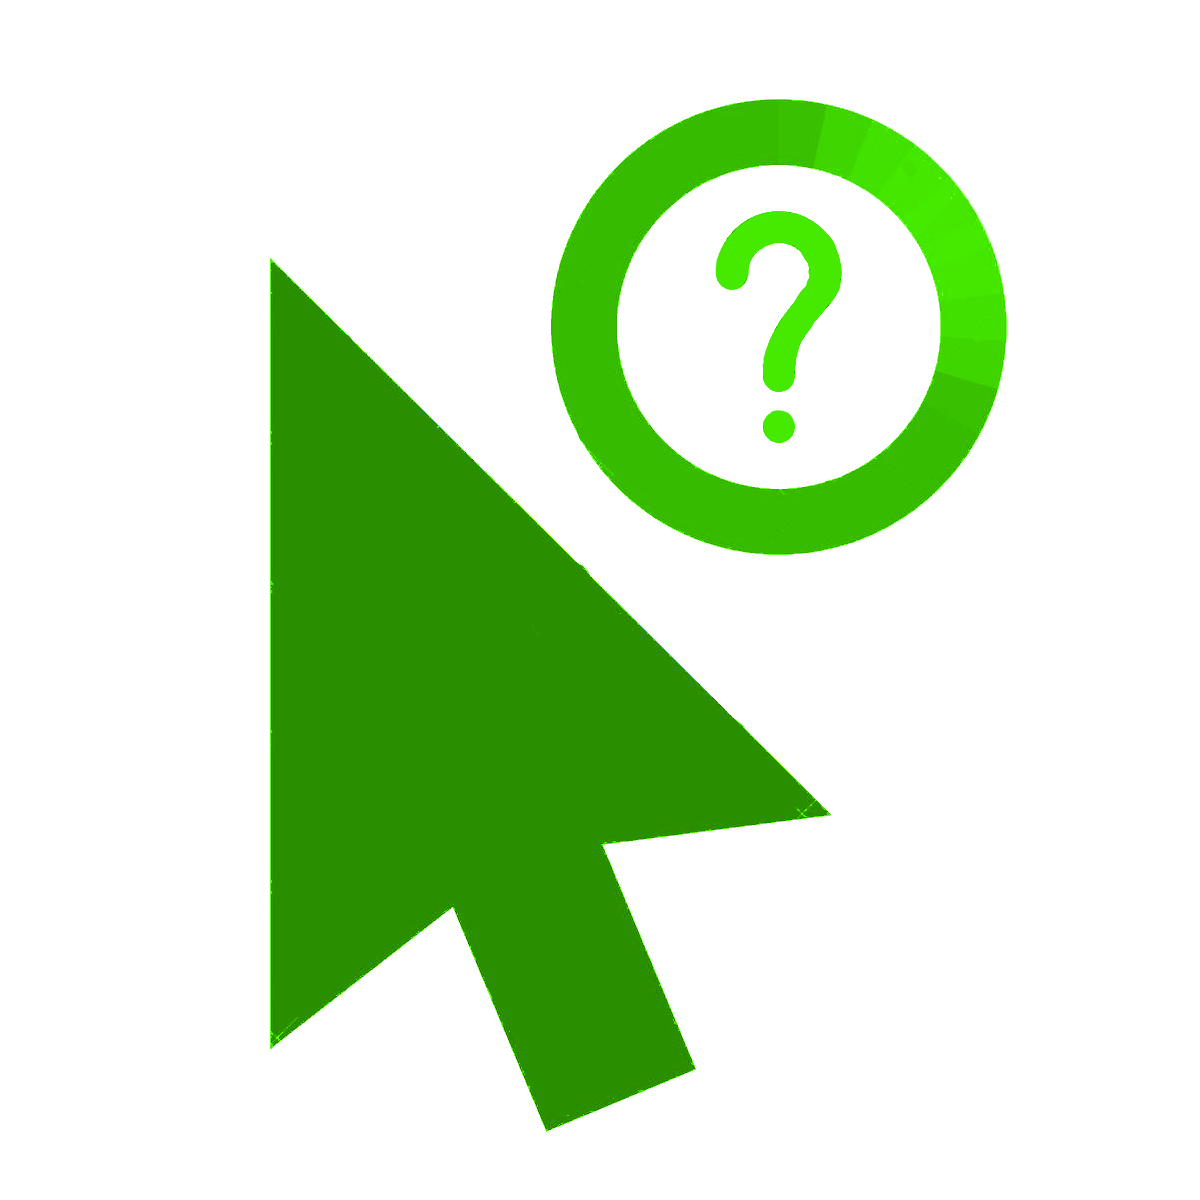
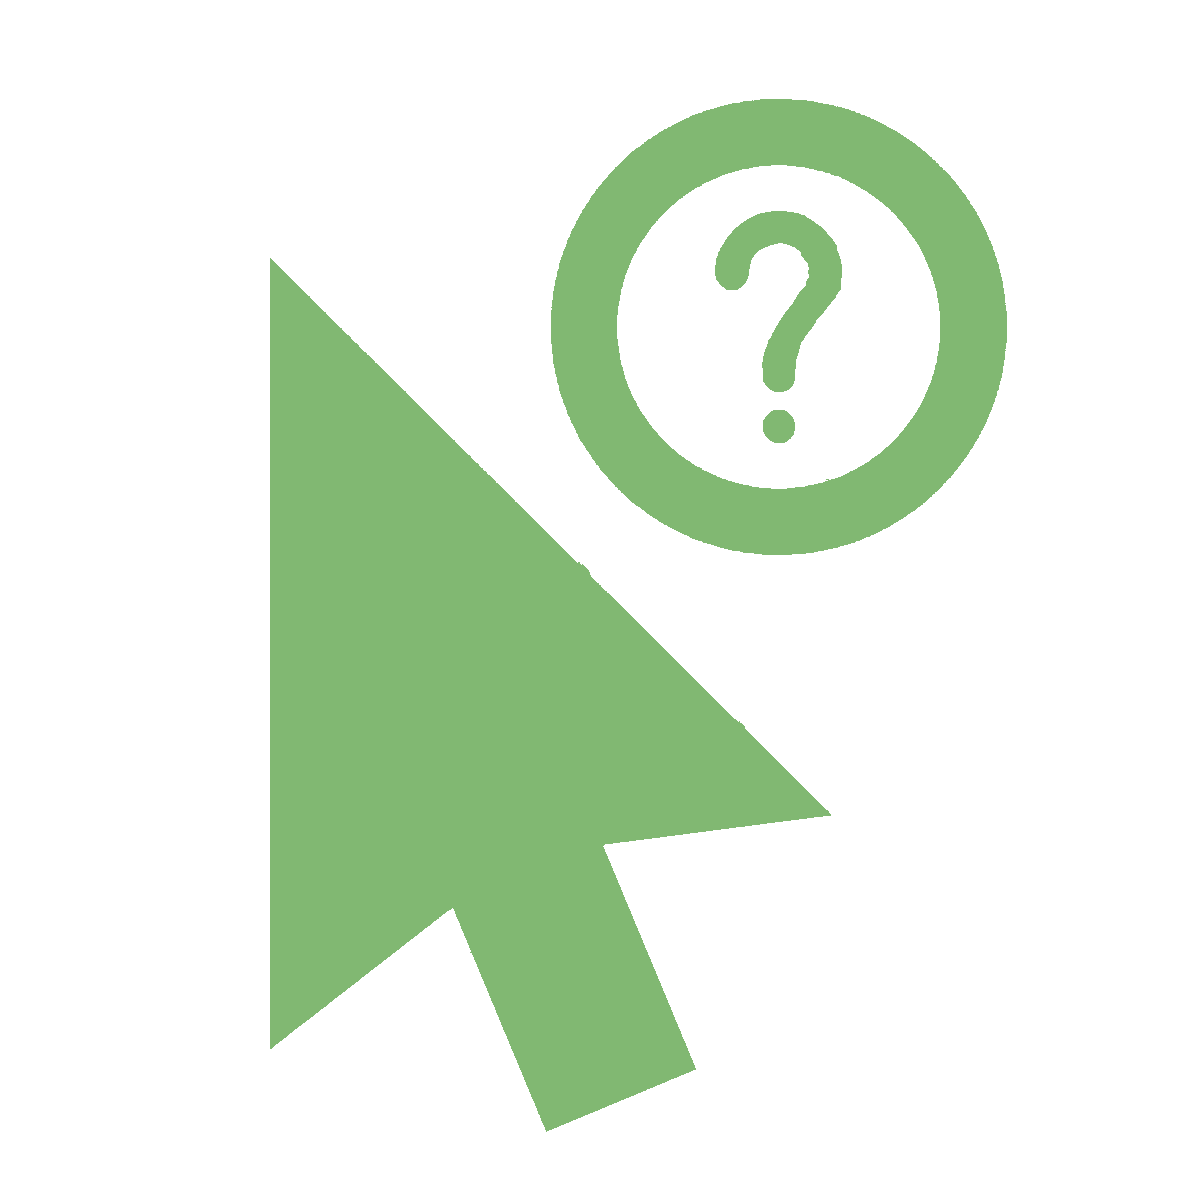
update

Changed region(s): [[0.2158, 0.2158, 0.7092, 0.9558], [0.4625, 0.0617, 0.8633, 0.4625]]

diff --git a/LeAFtool.py b/LeAFtool.py
@@ -333,7 +333,7 @@ class LeaftoolParams(qt.QGroupBox):
         self.parent = parent
 
         # Layout Style
-        self.setTitle("LeAFtool params")
+        self.setTitle("LeAFtool")
         self.setStyleSheet(style)
         # self.setAutoFillBackground(True)
         self.layout = qt.QGridLayout()
@@ -440,7 +440,7 @@ class RunLeAFtool(qt.QWidget):
         self.layout = qt.QGridLayout()
         self.layout.setSizeConstraint(qt.QVBoxLayout.SetMinAndMaxSize)
         self.setLayout(self.layout)
-        self.setContentsMargins(10, 10, 10, 10)
+        self.setContentsMargins(0, 0, 0, 0)
         style_global = fct.getStyleSheet()
         self.setStyleSheet(style_global)
         self.setStyleSheet(scroll_style)
@@ -689,8 +689,8 @@ class MainInterface(qt.QMainWindow):
         # Layout Style
         self.setAttribute(Qt.WA_DeleteOnClose)
         self.layout = qt.QVBoxLayout(self.main)
-        self.layout.setSizeConstraint(1)
-        self.main.setContentsMargins(5, 5, 5, 5)
+        # self.layout.setSizeConstraint(1)
+        self.main.setContentsMargins(0, 5, 5, 5)
         self.main.setAutoFillBackground(True)
         style_global = fct.getStyleSheet()
         self.setStyleSheet(style_global)
@@ -701,10 +701,10 @@ class MainInterface(qt.QMainWindow):
         self.logo_label = qt.QLabel(self)
         self.logo_img = QPixmap(vrb.folderMacroInterface + "/LeAFtool/Images/LeAFtool-long.png")
 
-        self.logo_img = self.logo_img.scaledToHeight(90, mode=Qt.FastTransformation)
+        self.logo_img = self.logo_img.scaledToHeight(80, mode=Qt.FastTransformation)
         self.logo_label.setPixmap(self.logo_img)
         self.logo_label.setAlignment(Qt.AlignCenter)
-        self.logo_label.setMaximumHeight(90)
+        self.logo_label.setMaximumHeight(80)
 
         # Initialize the 2 tab screen
         self.tabs = qt.QTabWidget()
@@ -722,7 +722,7 @@ class MainInterface(qt.QMainWindow):
         table_group.setTitle("Merge Results")
         table_group.setStyleSheet(style)
         table_group.layout = qt.QVBoxLayout()
-        table_group.layout.setContentsMargins(3, 3, 3, 3)
+        table_group.layout.setContentsMargins(10, 10, 10, 10)
         table_group.setLayout(table_group.layout)
         table_group.layout.addWidget(self.csv_file)
         table_group.layout.addWidget(self.table_final)

diff --git a/Leaftool_addons/commonWidget.py b/Leaftool_addons/commonWidget.py
@@ -17,16 +17,16 @@ import UsefullFunctions as fct
 import DatabaseFunction as Dfct
 
 
-style = """QGroupBox:title {left: 20px ;padding-left: 10px;padding-right: 10px; padding-top: -12px; color:rgb(33, 171, 38)} 
+style = """QGroupBox:title {left: 20px ;padding-left: 10px;padding-right: 10px; padding-top: -12px; color:rgb(129, 184, 114)} 
 QGroupBox {font: bold; border: 1px solid gray; margin-top:12 px; margin-bottom: 0px}
 QDoubleSpinBox:focus {
-border-color: green;
+border-color: #81b872;
 }
 QDoubleSpinBox {
     background-color: QLinearGradient( x1: 0, y1: 0, x2: 0, y2: 1, stop: 0 #4d4d4d, stop: 0 #646464, stop: 1 #5d5d5d);
 }
 QSpinBox:focus {
-border-color: green;
+border-color: #81b872;
 }
 QSpinBox {
     background-color: QLinearGradient( x1: 0, y1: 0, x2: 0, y2: 1, stop: 0 #4d4d4d, stop: 0 #646464, stop: 1 #5d5d5d);
